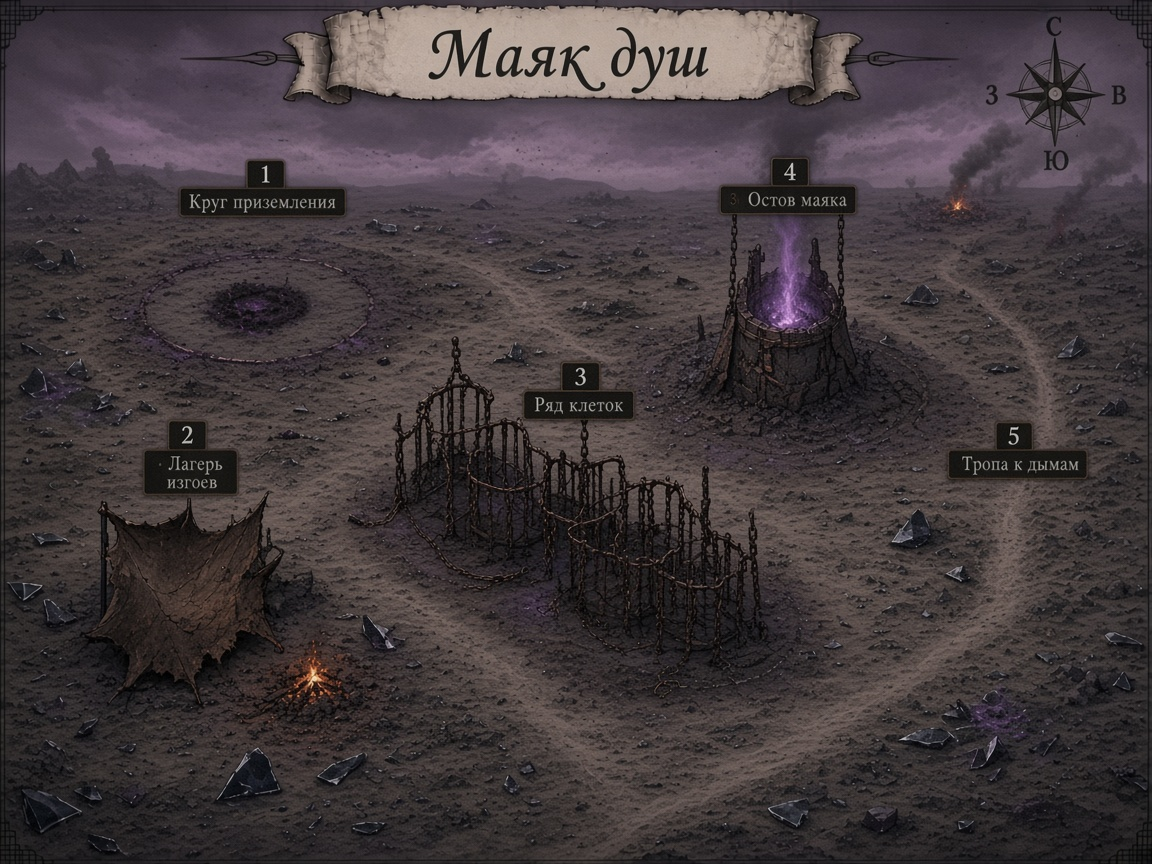
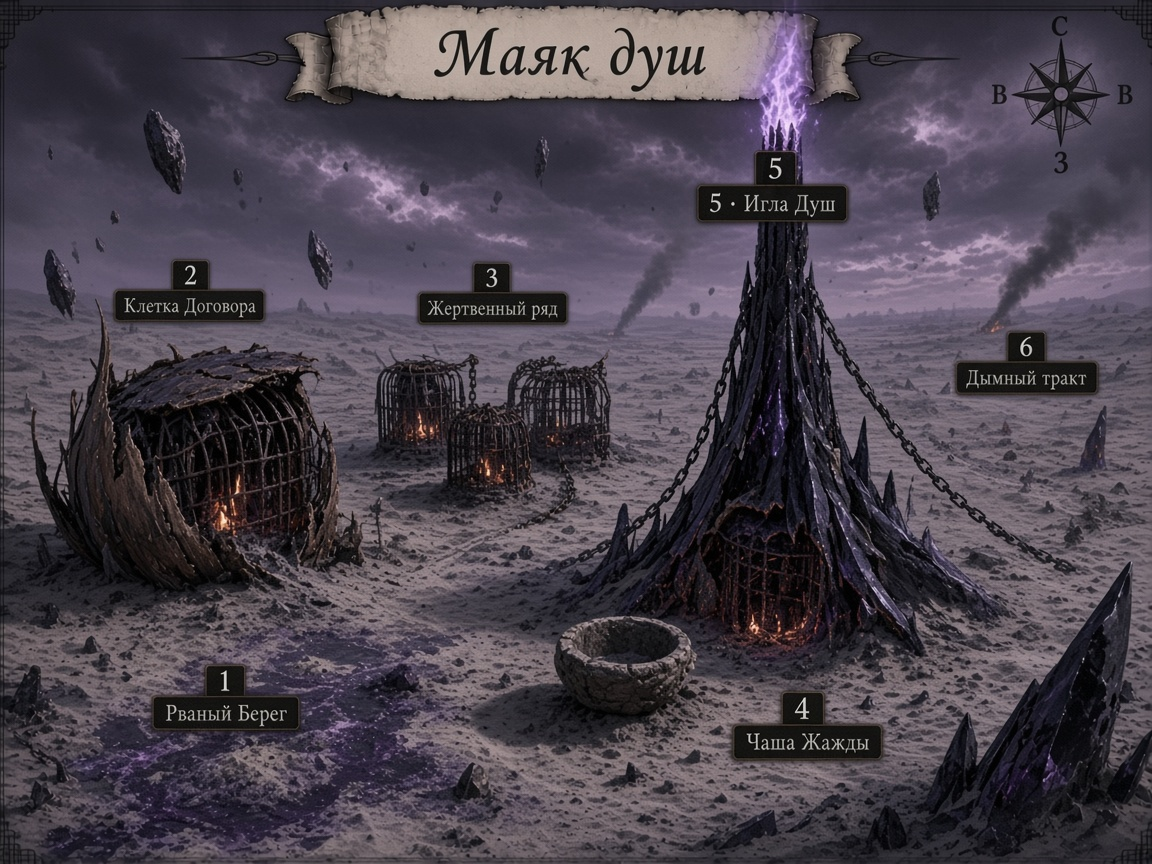
Маяк душ v4: Игла Душ + 6 именованных точек
Не башня — шпиль-сифон; playbook/side/скрипт синхронизированы. Ждём ok.

diff --git a/campaign/prep/locations/mayak-dush/playbook.md b/campaign/prep/locations/mayak-dush/playbook.md
@@ -11,7 +11,8 @@ attitude_axes:
   - изгои маяка (Сарель)
   - мелочь легиона / охотники
   - дымы Алтарного тракта (далекий фон)
-sites_count: 5
+sites_count: 6
+map_version: v4
 ---
 
 # Маяк душ — seed playbook
@@ -24,23 +25,24 @@ sites_count: 5
 | Поле | Значение |
 |---|---|
 | Регион | План демонов за фиолетовым потоком |
-| Масштаб | **site** — маяк + лагерь + пустошь у клеток |
+| Масштаб | **site** — ритуал-пустошь у **Иглы Душ** |
 | Власть | Нет; Сарель держит изгоев |
-| Угроза | Сборщик Огарков (врок) — **основной** бой сессии; мелочь в клетках |
-| Детализировано | 5 мест-сид + side q-mayak-01…03 |
-| Карта site | **draft v1** — [`map.md`](map.md) · ждём ok |
+| Угроза | Сборщик Огарков (врок) — **основной** бой сессии; мелочь у клеток |
+| Детализировано | 6 мест-сид + side q-mayak-01…03 |
+| Карта site | **draft v4** — [`map.md`](map.md) · ждём ok |
 | Заглушки | Алтарный тракт; обзор всего плана демонов |
 
 ## Атмосфера
 
-Пепельно-багровая пустошь. Небо-синяк. Запах меди и горячего камня. Маяк — грязно-фиолетовый столб над клетками и цепями. Тихо. Слишком тихо.
+Искажённое Лунное Царство: серебристый пепел, чёрное стекло, небо-синяк, парящие осколки.  
+**Игла Душ** — не башня-маяк: чёрно-стеклянный шпиль, в который легион **вливал** души пленных. Сверху — грязно-фиолетовое холодное пламя. Тихо. Слишком тихо.
 
 ## 5 фактов «сейчас»
 
-1. Легион **бросил** маяк; жгут дальше у дымов.  
-2. Изгои-тифлинги прячутся в остове клетки; нужен проводник = сделка/бой со Сборщиком (mq-01).  
-3. В клетках ещё тлеют личные вещи пленных — топливо для side.  
-4. Мелочь (импы / дретчи) иногда возвращается «подметать».  
+1. Легион **бросил** Иглу; жгут дальше у дымов.  
+2. Изгои-тифлинги прячутся в **Клетке Договора**; проводник = сделка/бой со Сборщиком.  
+3. В Жертвенном ряду ещё тлеют вещи пленных — топливо для side.  
+4. Мелочь иногда возвращается «подметать» огарки.  
 5. Без Сарель каждый переход — Survival 16 (скрипт mq-01).
 
 ## Фракции
@@ -51,15 +53,16 @@ sites_count: 5
 | Сборщик / мелочь | души, огарки | патруль клеток |
 | Дымы (фон) | новое место силы | не сюда, пока жгут там |
 
-## Оглавление — 5 мест
+## Оглавление — 6 мест
 
 | # | Место |
 |---:|---|
-| 1 | Круг приземления |
-| 2 | Лагерь изгоев |
-| 3 | Ряд клеток |
-| 4 | Остов маяка |
-| 5 | Тропа к дымам (край сида) |
+| 1 | Рваный Берег |
+| 2 | Клетка Договора |
+| 3 | Жертвенный ряд |
+| 4 | Чаша Жажды |
+| 5 | Игла Душ |
+| 6 | Дымный тракт |
 
 ## Индекс НПС
 
@@ -69,39 +72,38 @@ sites_count: 5
 |---|---|---|
 | **Сарель Пепельный Договор** | 2 | лидер; проводник (mq-01) |
 | **Кеш** | 2 / 3 | молодой тифлинг; дрожит |
-| **Орра** | 2 / 4 | бывший культист; руны маяка |
+| **Орра** | 2 / 4 / 5 | бывший культист; руны Иглы |
 | **Визг** | 3 | scavenger-имп (transient side) |
 
 ## Индекс якорей квестов
 
 | id | Крючок | Место | Выдаёт | Файл |
 |---|---|---|---|---|
-| mq-01 | Сборщик / проводка Сарель | 2 / 4 | Сарель | [`../../arcs/arc-3/quests/mq-01-klyk-v-zavese.md`](../../arcs/arc-3/quests/mq-01-klyk-v-zavese.md) |
+| mq-01 | Сборщик / проводка Сарель | 2 / 5 | Сарель | [`../../arcs/arc-3/quests/mq-01-klyk-v-zavese.md`](../../arcs/arc-3/quests/mq-01-klyk-v-zavese.md) |
 | q-mayak-01 | амулет сестры в клетке | 3 | Кеш | [`quests/q-mayak-01.md`](quests/q-mayak-01.md) |
-| q-mayak-02 | колодец-чаша без воды | 2 / 1 | Орра | [`quests/q-mayak-02.md`](quests/q-mayak-02.md) |
-| q-mayak-03 | имп тащит кости имён | 3 / 5 | Сарель / сами | [`quests/q-mayak-03.md`](quests/q-mayak-03.md) |
+| q-mayak-02 | Чаша Жажды без влаги | 4 | Орра | [`quests/q-mayak-02.md`](quests/q-mayak-02.md) |
+| q-mayak-03 | имп тащит кости имён | 3 / 6 | Сарель / сами | [`quests/q-mayak-03.md`](quests/q-mayak-03.md) |
 
 Сборник: [`quests-bundle.md`](quests-bundle.md) · [`quests/index.md`](quests/index.md)
 
 ---
 
-## 1. Круг приземления
+## 1. Рваный Берег
 
 ### Кратко
-Куда выплёвывает поток. Пепел, следы копыт и волочения к маяку.
+Куда выплёвывает поток. Пепел, сколы чёрного стекла, следы копыт и волочения к Игле.
 
 ### Якоря
 | id | Крючок |
 |---|---|
-| mq-01 | следы → маяк |
-| q-mayak-02 | треснувшая чаша-колодец у края круга |
+| mq-01 | следы → Игла / Клетка Договора |
 
 ---
 
-## 2. Лагерь изгоев
+## 2. Клетка Договора
 
 ### Кратко
-Остов большой клетки; костёр без тепла; Сарель, Кеш, Орра.
+Остов огромной клетки (рёбра железа); костёр без тепла; Сарель, Кеш, Орра. Имя — от клички Сарель.
 
 ### Якоря
 | id | Крючок |
@@ -112,34 +114,46 @@ sites_count: 5
 
 ---
 
-## 3. Ряд клеток
+## 3. Жертвенный ряд
 
 ### Кратко
-Цепи, выжженные круги, личные вещи. Сборщик нюхает здесь по ночам.
+Цепи, клетки, выжженные круги. Сборщик нюхает здесь. Фланг дретчей в бою.
 
 ### Якоря
 | id | Крючок |
 |---|---|
 | q-mayak-01 | амулет / имя |
 | q-mayak-03 | Визг тащит кости |
-| mq-01 | фланг дретчей в бою |
+| mq-01 | фланг в бою |
 
 ---
 
-## 4. Остов маяка
+## 4. Чаша Жажды
 
 ### Кратко
-Грязно-фиолетовый столб; обломок для клиффа; руны Орры.
+Сухая каменная чаша у подножия Иглы. Когда-то принимала кровь/слезы ритуала. Side Орры.
+
+### Якоря
+| id | Крючок |
+|---|---|
+| q-mayak-02 | руна «жажды» / влага |
+
+---
+
+## 5. Игла Душ
+
+### Кратко
+Чёрно-стеклянный шпиль; грязно-фиолетовое холодное пламя; обломок для клиффа; руны Орры. **Это** и есть «Маяк душ» как объект.
 
 ### Якоря
 | id | Крючок |
 |---|---|
 | mq-01 | клифф / карта-царапина Сарель |
-| q-mayak-02 | руна «жажды» на основании |
+| q-mayak-02 | руны на основании |
 
 ---
 
-## 5. Тропа к дымам
+## 6. Дымный тракт
 
 ### Кратко
 Край сида. Не вести сюда в сессии 2 без нужды. Фон Алтарного тракта.
@@ -148,12 +162,12 @@ sites_count: 5
 | id | Крючок |
 |---|---|
 | mq-01 | клифф «туда легион» |
-| q-mayak-03 | имп удирает к дымам с добычей |
+| q-mayak-03 | имп удирает к дымам |
 
 ---
 
 ## Если партия медлит
 
 1. Сборщик жрёт ещё одного безымянного изгоя.  
-2. Кеш уходит в клетки один → ранен / пропал амулет глубже.  
+2. Кеш уходит в Жертвенный ряд один → ранен / пропал амулет глубже.  
 3. Дымы ближе на горизонте (атмосфера, не бой Алтарного).

diff --git a/campaign/prep/locations/mayak-dush-map-brief.md b/campaign/prep/locations/mayak-dush-map-brief.md
@@ -1,27 +1,42 @@
 ---
 title: "Маяк душ — бриф карты"
 status: draft
-version: v1
+version: v4
 date: 2026-09-23
 audience: players
+source: gm-2026-09-23 («слабо; маяк иначе; другие точки»)
 ---
 
-# Бриф карты — Маяк душ
+# Бриф карты — Маяк душ (v4)
 
-## Whitelist подписей
+## Концепт маяка (не башня)
 
-`Маяк душ` · `1 · Круг приземления` · `2 · Лагерь изгоев` · `3 · Ряд клеток` · `4 · Остов маяка` · `5 · Тропа к дымам` · компас `С В Ю З`
+**Не** классический lighthouse и **не** костёр-столб.  
+**Игла Душ** — чёрно-стеклянный / костяной шпиль: в него когда-то **вливали** души пленных снизу (цепи, клетки, воронка). Сверху — грязно-фиолетовое «пламя» без тепла, как холодный лунный огонь. Легион бросил; шпиль ещё **тлеет**.
 
-## Канон vs картинка
+Эстетика пустоши: **искажённое Лунное Царство** — серебристый пепел, чёрное стекло, небо-синяк, парящие осколки скал.
 
-| | Канон (playbook) | v1 |
-|---|---|---|
-| Лагерь | остов большой клетки | укрытие/костёр (упрощение) |
-| Маяк | грязно-фиолетовый столб | ок |
-| Пустошь | открытая, без стен | ок (v3 с валом — discard) |
+## Whitelist подписей (6)
+
+| # | Подпись | Что на картинке |
+|---:|---|---|
+| 1 | Рваный Берег | край пустоши, куда выплёвывает поток; сколы стекла |
+| 2 | Клетка Договора | **огромный** остов клетки-укрытия (не палатка) |
+| 3 | Жертвенный ряд | ряд клеток + цепи + выжженные круги |
+| 4 | Чаша Жажды | сухая каменная чаша/колодец у подножия |
+| 5 | Игла Душ | доминирующий шпиль + фиолетовое холодное пламя |
+| 6 | Дымный тракт | тропа к дальним дымам (фон Алтарного) |
+
+Компас: `С В Ю З`. Заголовок: `Маяк душ`.
+
+## Запрещено
+
+- Палатки / юрты  
+- Каменный вал вокруг всего сайта  
+- Оранжевый «морской» маяк  
+- Армия / демоны как фигуры  
+- Алтарь / Филактерий / Око (это дальше)
 
 ## Выход
 
-- `assets/maps/mayak-dush/mayak-dush-map-v1.png` (= current)  
-- `campaign/prep/locations/mayak-dush/map.png`  
-- v3 discard: `mayak-dush-map-v3-discard.png` (вал — не тот масштаб)
+`assets/maps/mayak-dush/mayak-dush-map-v4.png` → current после ok

diff --git a/campaign/prep/locations/mayak-dush/map.md b/campaign/prep/locations/mayak-dush/map.md
@@ -3,31 +3,33 @@ title: "Маяк душ — карта"
 slug: mayak-dush
 status: draft
 audience: players
-version: v1
+version: v4
 ---
 
 # Карта Маяка душ
 
 ![Маяк душ](map.png)
 
-**Статус:** draft v1 — ждём ok мастера (как Причал до лока).  
-Файлы: [`map.png`](map.png) · [`../../../../assets/maps/mayak-dush/mayak-dush-map.png`](../../../../assets/maps/mayak-dush/mayak-dush-map.png) · draft [`…-v1.png`](../../../../assets/maps/mayak-dush/mayak-dush-map-v1.png)
+**Статус:** draft **v4** — ждём ok.  
+Концепт: маяк = **Игла Душ** (шпиль-сифон), не башня.  
+Файлы: [`map.png`](map.png) · [`../../../../assets/maps/mayak-dush/mayak-dush-map-v4.png`](../../../../assets/maps/mayak-dush/mayak-dush-map-v4.png)
 
 Скрипт с.2 A: [`../../arcs/arc-3/quests/mq-01-sessions-1-2-detail.md`](../../arcs/arc-3/quests/mq-01-sessions-1-2-detail.md) §2.6  
-Playbook: [`playbook.md`](playbook.md)
+Playbook: [`playbook.md`](playbook.md) · бриф: [`../mayak-dush-map-brief.md`](../mayak-dush-map-brief.md)
 
 ## Номера на карте
 
-| # | Место | Заметка |
-|---:|---|---|
-| 1 | Круг приземления | выход фиолетового потока |
-| 2 | Лагерь изгоев | **канон:** остов большой клетки; на v1 визуально — укрытие у костра (итерация ok) |
-| 3 | Ряд клеток | поле боя / side |
-| 4 | Остов маяка | фиолетовый столб; клифф |
-| 5 | Тропа к дымам | край сида → Алтарный тракт (фон) |
+| # | Место |
+|---:|---|
+| 1 | Рваный Берег |
+| 2 | Клетка Договора |
+| 3 | Жертвенный ряд |
+| 4 | Чаша Жажды |
+| 5 | Игла Душ |
+| 6 | Дымный тракт |
 
-Ориентиры: **С** ≈ круг / маяк на горизонте · **В** ≈ дымы · **З** ≈ лагерь.
+Ориентиры: **Игла** доминирует · **В** ≈ дымы · лагерь = клетка, не палатка.
 
 ## Не на карте (намеренно)
 
-Сборщик Огарков · имена изгоев · Алтарь / Филактерий / Око.
+Сборщик · имена изгоев · Алтарь / Филактерий / Око.

diff --git a/campaign/prep/locations/mayak-dush/quests/q-mayak-02.md b/campaign/prep/locations/mayak-dush/quests/q-mayak-02.md
@@ -3,7 +3,7 @@ id: q-mayak-02
 title: "Чаша без влаги"
 status: prep
 loc_slug: mayak-dush
-place: "1 · Круг приземления / 4 · Остов маяка"
+place: "4 · Чаша Жажды / 5 · Игла Душ"
 size_hint: micro
 priority: medium
 arc_link: soft-arc
@@ -15,13 +15,13 @@ tags: [quest, side, mayak]
 
 ## Hook (30 сек)
 
-**Орра** у основания маяка: руна «жажды» трещит — в плане нет воды, но **ритуальная влага** ещё теплится в треснувшей чаше у круга приземления. Если чашу не «напоить» (кровь демона / святая вода с Материала / слёзы изгоя), руна вспыхнет и выдаст лагерь дымам. Это не Сборщик и не Алтарь.
+**Орра** у **Чаши Жажды** / основания **Иглы**: руна «жажды» трещит — в плане нет воды, но **ритуальная влага** ещё теплится в сухой чаше. Если чашу не «напоить» (кровь демона / святая вода с Материала / слёзы изгоя), руна вспыхнет и выдаст лагерь дымам. Это не Сборщик и не Алтарь.
 
 ## Якорь
 
 | Поле | Значение |
 |---|---|
-| Место | Чаша у круга · руна на остове |
+| Место | Чаша Жажды · руна на Игле |
 | Выдаёт | **Орра** |
 | Триггер | осмотр маяка; Arcana 13; или Орра зовёт после знакомства |
 

diff --git a/assets/maps/README.md b/assets/maps/README.md
@@ -9,4 +9,4 @@ title: Карты
 - [Карта Лунных Пиков](lunnye-piki-map.jpg) — [`world/locations/lunnye-piki-map.md`](../../world/locations/lunnye-piki-map.md)
 - [Карта Ледяного Союза](ledyanoy-soyuz-map.jpg) — [`world/locations/ledyanoy-soyuz-map.md`](../../world/locations/ledyanoy-soyuz-map.md) **(LOCKED)**
 - [Серый Причал (план мёртвых)](seryy-prichal/seryy-prichal-map.png) — playbook [`campaign/prep/locations/seryy-prichal/`](../../campaign/prep/locations/seryy-prichal/)
-- [Маяк душ (план демонов)](mayak-dush/mayak-dush-map.png) — **draft v1** · [`campaign/prep/locations/mayak-dush/`](../../campaign/prep/locations/mayak-dush/)
+- [Маяк душ (план демонов)](mayak-dush/mayak-dush-map.png) — **draft v4** · [`campaign/prep/locations/mayak-dush/`](../../campaign/prep/locations/mayak-dush/)

diff --git a/campaign/prep/locations/mayak-dush/quests/q-mayak-03.md b/campaign/prep/locations/mayak-dush/quests/q-mayak-03.md
@@ -3,7 +3,7 @@ id: q-mayak-03
 title: "Кости имён"
 status: prep
 loc_slug: mayak-dush
-place: "3 · Ряд клеток / 5 · Тропа к дымам"
+place: "3 · Жертвенный ряд / 6 · Дымный тракт"
 size_hint: session
 priority: medium
 arc_link: soft-arc
@@ -21,7 +21,7 @@ tags: [quest, side, mayak]
 
 | Поле | Значение |
 |---|---|
-| Место | Клетки → тропа к дымам |
+| Место | Жертвенный ряд → Дымный тракт |
 | Выдаёт | **Сарель** / сами видят Визга (Perception 13) |
 | Триггер | после приземления; или между сделкой и боем |
 

diff --git a/campaign/prep/orchestrator/plane-maps-plan.md b/campaign/prep/orchestrator/plane-maps-plan.md
@@ -51,7 +51,7 @@ gm_ok_start: "2026-09-23 — да, начнем с маяка"
 
 | # | Скил | Зачем | Статус |
 |---|---|---|---|
-| 1 | echo-dawn-location (+ map) | Маяк: карта site + 5 мест | **draft v1** — ждём ok |
+| 1 | echo-dawn-location (+ map) | Маяк: карта site (Игла + 6 мест) | **draft v4** — ждём ok |
 | 2 | опрос оркестратора | Геометрия плана демонов (круги, ворота, якоря) | wait-ok |
 | 3 | map + lock | Обзор демонов | wait-ok |
 | 4 | опрос → map | Обзор мёртвых (за Причалом) | wait-ok |

diff --git a/campaign/prep/locations/mayak-dush/quests/q-mayak-01.md b/campaign/prep/locations/mayak-dush/quests/q-mayak-01.md
@@ -3,7 +3,7 @@ id: q-mayak-01
 title: "Амулет в клетке"
 status: prep
 loc_slug: mayak-dush
-place: "3 · Ряд клеток"
+place: "3 · Жертвенный ряд"
 size_hint: micro
 priority: medium
 arc_link: standalone
@@ -21,7 +21,7 @@ tags: [quest, side, mayak]
 
 | Поле | Значение |
 |---|---|
-| Место | Ряд клеток |
+| Место | Жертвенный ряд |
 | Выдаёт | **Кеш** |
 | Триггер | разговор в лагере до/после сделки со Сарель |
 

diff --git a/campaign/prep/locations/mayak-dush/README.md b/campaign/prep/locations/mayak-dush/README.md
@@ -9,7 +9,7 @@ status: prep
 | | |
 |---|---|
 | Масштаб | site · план демонов |
-| Статус | `prep` seed · карта **draft v1** |
+| Статус | `prep` seed · карта **draft v4** |
 | Арка | mq-01 дверь A · сессия 2 |
 | Скил | `echo-dawn-location` (сид) + `echo-dawn-quest-side` |
 
